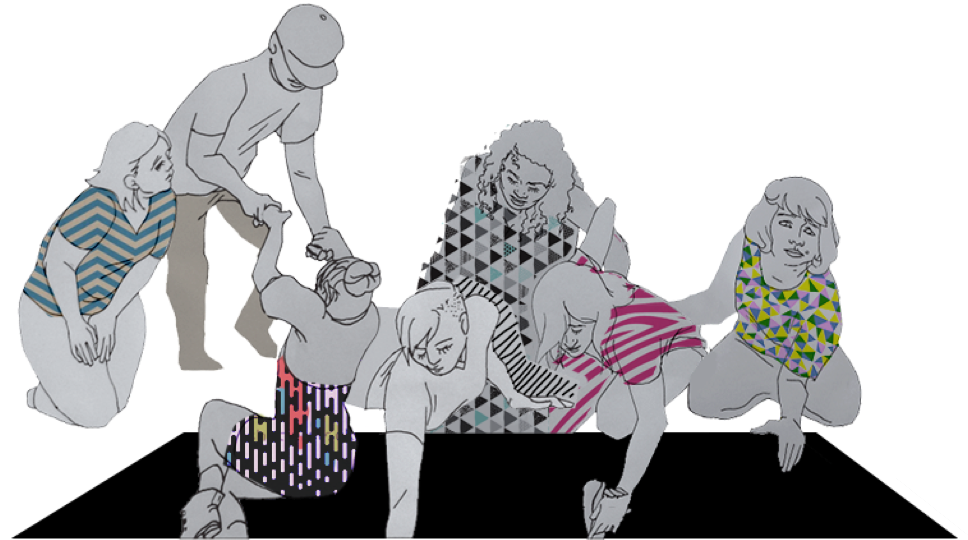
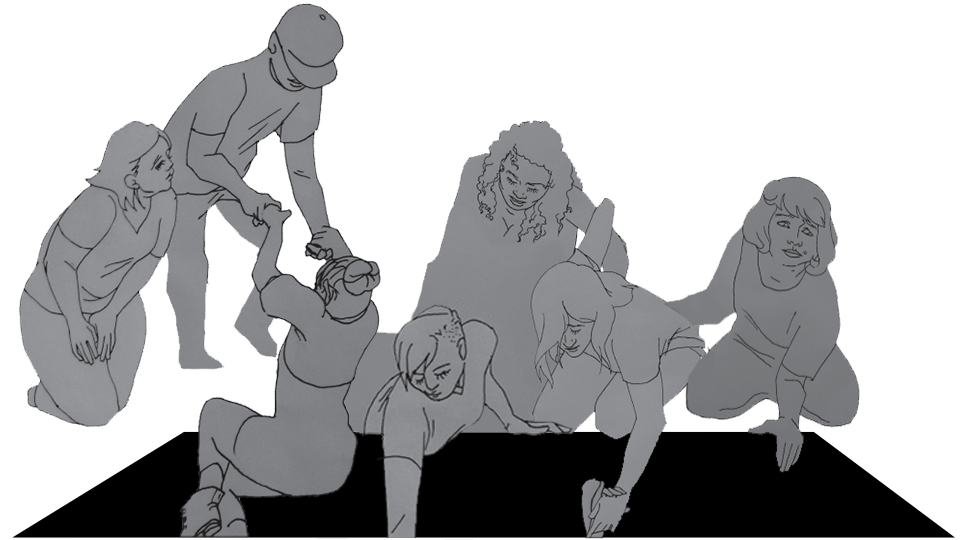
update homepage
- replace top illustration, remove colors
- update subheading text size

diff --git a/src/stylesheets/_entries/home/index.css b/src/stylesheets/_entries/home/index.css
@@ -2,9 +2,7 @@
 
 /* page styles */
 .HomeSubheading {
-  @media (max-width: 400px) {
-    font-size: 2rem;
-  }
+  font-size: 2rem;
 }
 
 .HomeHeading {
